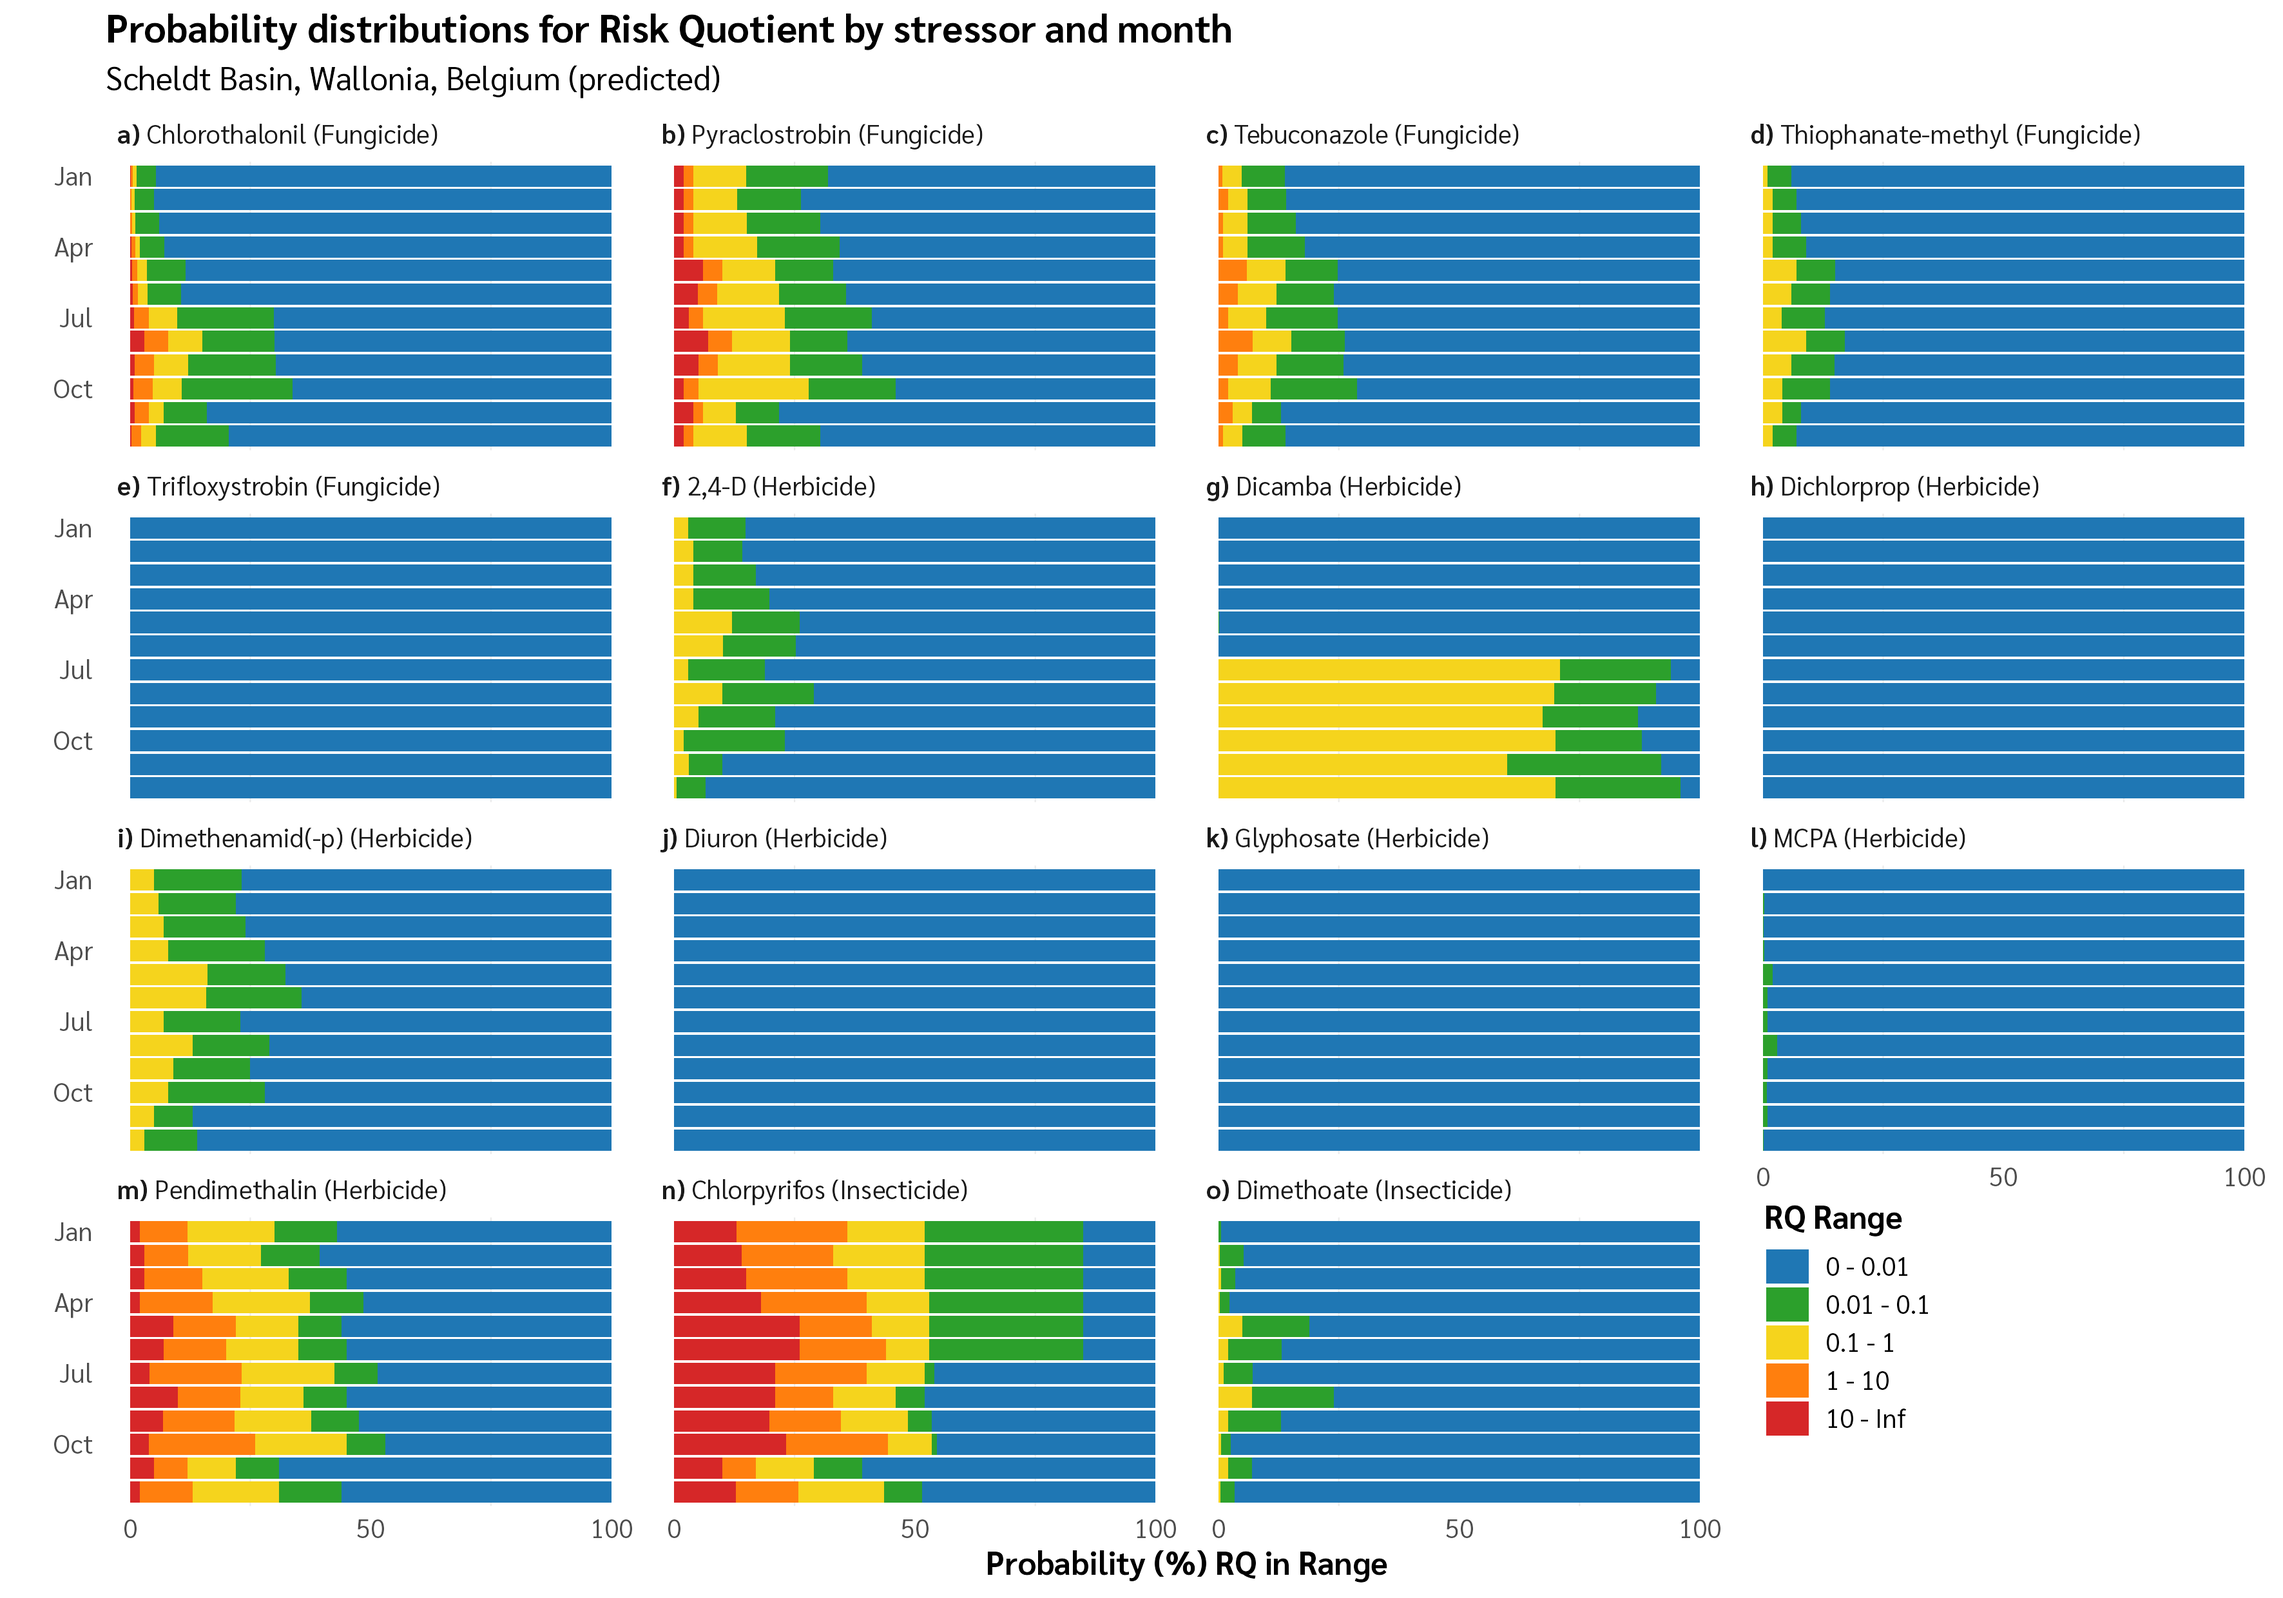
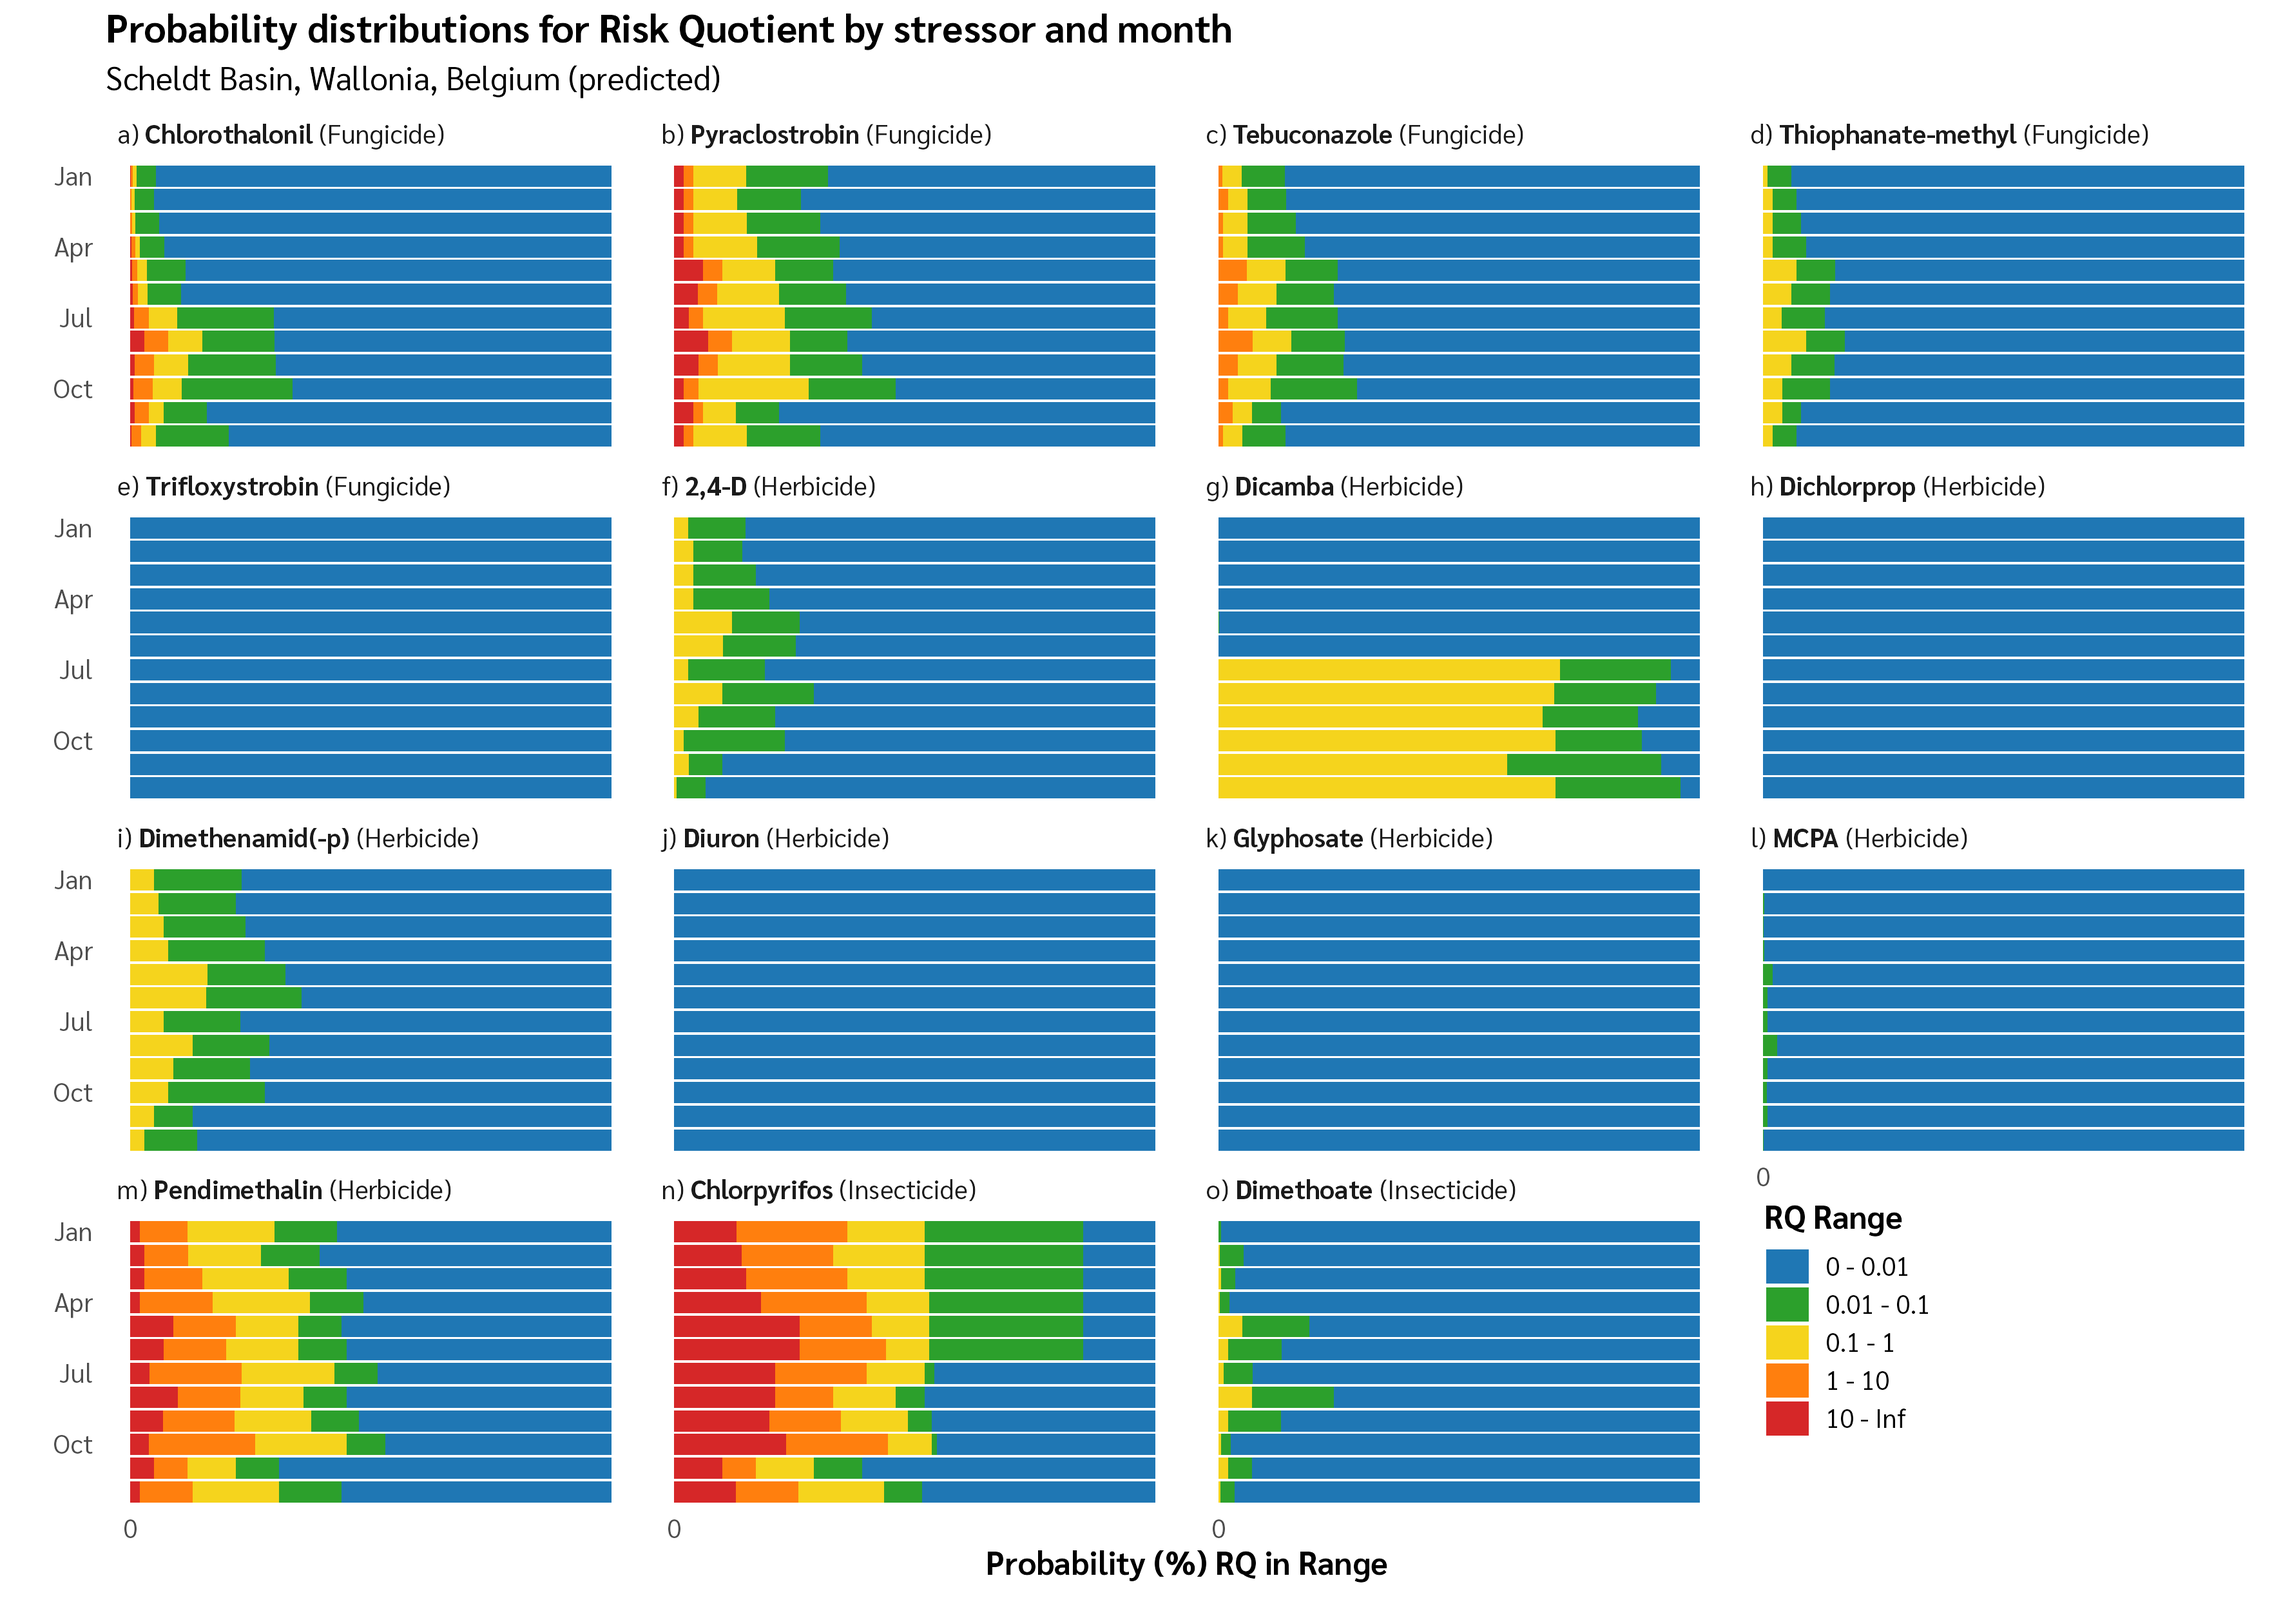
Fixes and new fig3 - Finally fixed the percentage normalisation - Added figure 3 - Added an extended readme, which may or may not work...

diff --git a/README.md b/README.md
@@ -1,0 +1,38 @@
+
+Graphics made from BN output for the ENCORE project.
+
+# Code
+
+``` r
+r_files <- list.files("R", pattern = "\\.R$", full.names = FALSE)
+
+r_descriptions <- tribble(
+  ~file, ~description,
+  "make_fig1.R", "Generate individual stressor risk quotient probability distributions by RBD",
+  "make_fig2.R", "Generate grouped stressor comparison visualizations",
+  "make_fig3.R", "Generate multiple risk metrics comparison charts",
+  "_RUNME.R", "Loads packages and runs all figure generation scripts"
+)
+
+r_files_df <- tibble(file = r_files) |>
+  left_join(r_descriptions, by = "file") |>
+  mutate(description = coalesce(description, ""))
+
+r_files_df |>
+  glue_data("- **{file}**: {description}") |>
+  paste(collapse = "\n")
+#> [1] "- **_RUNME.R**: Loads packages and runs all figure generation scripts\n- **format_data.R**: \n- **load_data.R**: \n- **make_fig1.R**: Generate individual stressor risk quotient probability distributions by RBD\n- **make_fig2.R**: Generate grouped stressor comparison visualizations\n- **make_fig3.R**: Generate multiple risk metrics comparison charts\n- **themes.R**: "
+```
+
+# ENCORE-Graphs
+
+``` r
+image_files <- list.files("images", pattern = "\\.png$", full.names = FALSE)
+
+image_files |>
+  map_chr(function(img) {
+    glue("![{img}](images/{img})")
+  }) |>
+  paste(collapse = "\n\n")
+#> [1] "![fig1_beescaut-rw.png](images/fig1_beescaut-rw.png)\n\n![fig1_bemaas-vl.png](images/fig1_bemaas-vl.png)\n\n![fig1_bemeuse-rw.png](images/fig1_bemeuse-rw.png)\n\n![fig1_berhin-rw.png](images/fig1_berhin-rw.png)\n\n![fig1_beschelde-vl.png](images/fig1_beschelde-vl.png)\n\n![fig2_grouped_stressors.png](images/fig2_grouped_stressors.png)\n\n![fig3_multiple_risk_metrics_gt_0.01.png](images/fig3_multiple_risk_metrics_gt_0.01.png)\n\n![fig3_multiple_risk_metrics_gt_0.1.png](images/fig3_multiple_risk_metrics_gt_0.1.png)\n\n![fig3_multiple_risk_metrics_gt_1.png](images/fig3_multiple_risk_metrics_gt_1.png)\n\n![fig3_multiple_risk_metrics_gt_10.png](images/fig3_multiple_risk_metrics_gt_10.png)"
+```
